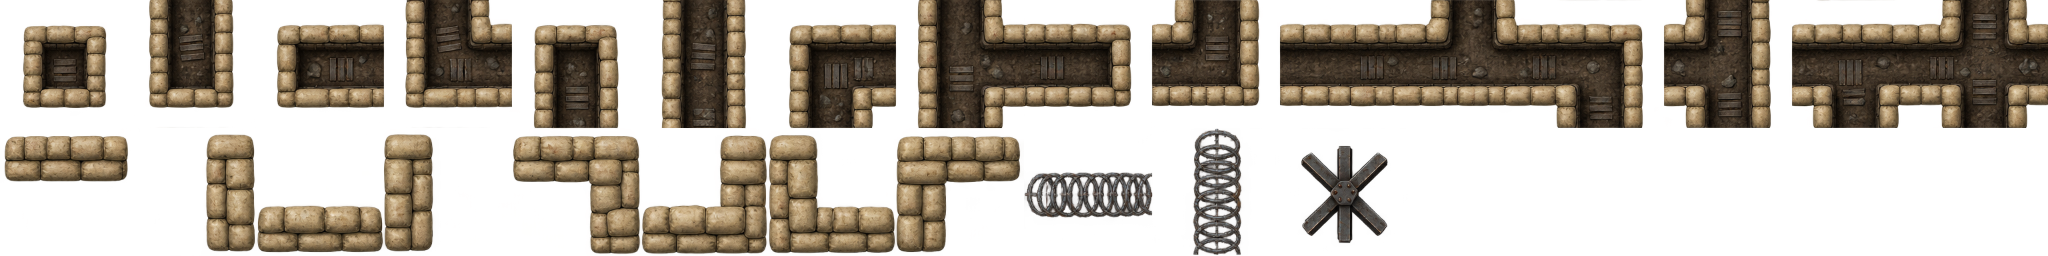
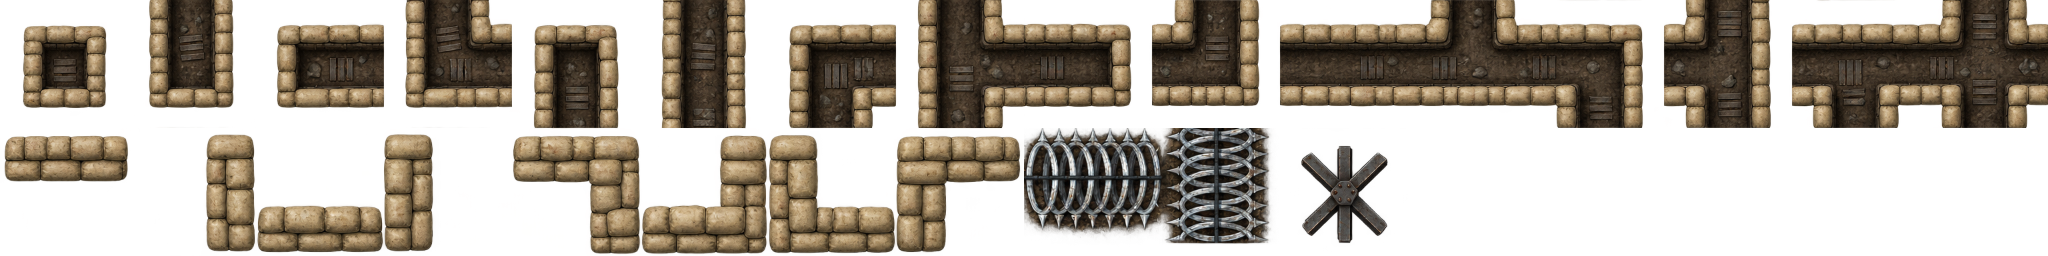
Keep a taken power plant running; bolder fort wire; suite captures all three aspects first

Changed region(s): [[0.5, 0.5, 0.625, 1.0]]

diff --git a/art-source/templates/fort-wire-guide.py b/art-source/templates/fort-wire-guide.py
@@ -1,0 +1,42 @@
+"""Geometry only: a bolder concertina wire for the fort belt, two 192px full-cell frames.
+
+Canvas 1536x1024, the same registration as fort-earthworks (frame 0 at (0, 576) horizontal run, frame 1 at (192, 576)
+vertical run), so the result is composited over those two frames of the earthworks sheet by
+art-source/tilesets/composite-fort-wire.py and exported through the ordinary tileset pipeline.
+
+The v1 coil was 60px of a 192px cell, a grey hairline on tan earth. This one fills ~62% of the cell width (120px
+coils), carries a dark contact-shadow band so the obstacle reads against bare earth, bright galvanised strands and
+sharp barbs, and edge-to-edge runs so neighbours join.
+"""
+from pathlib import Path
+from PIL import Image, ImageDraw
+
+ROOT = Path(__file__).resolve().parents[2]
+S = 192
+
+
+def wire(horizontal):
+    cell = Image.new('RGBA', (S, S))
+    d = ImageDraw.Draw(cell)
+    # contact shadow band: dark disturbed earth under the whole run
+    band = (0, S // 2 - 62, S, S // 2 + 62) if horizontal else (S // 2 - 62, 0, S // 2 + 62, S)
+    d.rectangle(band, fill=(40, 30, 22, 150))
+    for i in range(0, S, 24):
+        box = (i + 2, S // 2 - 56, i + 50, S // 2 + 56) if horizontal else (S // 2 - 56, i + 2, S // 2 + 56, i + 50)
+        d.ellipse(box, outline='#c9ced0', width=8)
+        # barbs at the top and bottom of every coil
+        for sign in (-1, 1):
+            if horizontal:
+                x, y = i + 26, S // 2 + sign * 56
+                d.polygon([(x - 6, y), (x + 6, y), (x, y + sign * 16)], fill='#e6eaeb')
+            else:
+                x, y = S // 2 + sign * 56, i + 26
+                d.polygon([(x, y - 6), (x, y + 6), (x + sign * 16, y)], fill='#e6eaeb')
+    d.line((0, S // 2, S, S // 2) if horizontal else (S // 2, 0, S // 2, S), fill='#3a3f41', width=6)
+    return cell
+
+
+guide = Image.new('RGBA', (1536, 1024))
+guide.alpha_composite(wire(True), (0, 3 * S))
+guide.alpha_composite(wire(False), (S, 3 * S))
+guide.save(ROOT / 'art-source/templates/fort-wire-guide.png')

diff --git a/src/test/java/com/dillon/starsectormarines/ops/BatteryFortMapSnapshotSuite.java b/src/test/java/com/dillon/starsectormarines/ops/BatteryFortMapSnapshotSuite.java
@@ -6,6 +6,7 @@ import com.dillon.starsectormarines.battle.fixture.BattleFixture;
 import com.dillon.starsectormarines.battle.fixture.BattleFixtureJson;
 import com.dillon.starsectormarines.battle.fixture.BattleLaunchFixture;
 import com.dillon.starsectormarines.battle.fixture.ConquestBattleFixture;
+import com.dillon.starsectormarines.battle.battery.FireControl;
 import com.dillon.starsectormarines.battle.fort.Fort;
 import com.dillon.starsectormarines.battle.fort.FortAspect;
 import com.dillon.starsectormarines.battle.fort.FortKind;
@@ -144,15 +145,16 @@ public final class BatteryFortMapSnapshotSuite implements SnapshotSuite {
         for (FortAspect aspect : BATTERY_BUILDINGS) {
             out.add(stateFrame(context, sim, ladder, aspect, "intact"));
         }
+        // Take every building first, and stop ticking the moment the holder flips: a tick with nobody present after
+        // the flip would start contesting it again, which is a suite artifact and not a fort law.
         for (FortAspect aspect : BATTERY_BUILDINGS) {
-            Fort.Place place = taken.place(aspect);
-            for (int s = 0; s < 40; s++) {
-                if (aspect == FortAspect.FIRE_CONTROL) {
-                    taken.battery().fireControl().tick(1f, false, Faction.MARINE);
-                } else {
-                    place.control().tick(1f, false, Faction.MARINE);
-                }
+            FireControl control = aspect == FortAspect.FIRE_CONTROL
+                    ? taken.battery().fireControl() : taken.place(aspect).control();
+            for (int s = 0; s < 40 && control.holder() != Faction.MARINE; s++) {
+                control.tick(1f, false, Faction.MARINE);
             }
+        }
+        for (FortAspect aspect : BATTERY_BUILDINGS) {
             out.add(stateFrame(context, sim, taken, aspect, "captured"));
         }
         for (FortAspect aspect : BATTERY_BUILDINGS) {

diff --git a/src/test/java/com/dillon/starsectormarines/battle/fort/FortBuildingArtTest.java b/src/test/java/com/dillon/starsectormarines/battle/fort/FortBuildingArtTest.java
@@ -13,6 +13,7 @@ import java.nio.file.Path;
 
 import static org.junit.jupiter.api.Assertions.assertArrayEquals;
 import static org.junit.jupiter.api.Assertions.assertEquals;
+import static org.junit.jupiter.api.Assertions.assertFalse;
 import static org.junit.jupiter.api.Assertions.assertNotNull;
 import static org.junit.jupiter.api.Assertions.assertNull;
 import static org.junit.jupiter.api.Assertions.assertThrows;
@@ -66,6 +67,15 @@ class FortBuildingArtTest {
         assertEquals(0.5f, art.activity(FortBuildingArt.State.DAMAGED, true));
         assertEquals(0f, art.activity(FortBuildingArt.State.INTACT, false));
         assertEquals(0f, art.activity(FortBuildingArt.State.WRECKED, true));
+    }
+
+    @Test
+    void aTakenButUncontestedPlantKeepsRunning() throws Exception {
+        FortBuildingArt art = FortBuildingArt.parse("s", new JSONObject(ART));
+        assertTrue(FortBuildingArt.plantRuns(false, false));
+        assertFalse(FortBuildingArt.plantRuns(true, false));
+        assertFalse(FortBuildingArt.plantRuns(false, true));
+        assertEquals(1f, art.activity(FortBuildingArt.State.INTACT, FortBuildingArt.plantRuns(false, false)));
     }
 
     @Test

diff --git a/art-source/tilesets/composite-fort-wire.py b/art-source/tilesets/composite-fort-wire.py
@@ -1,0 +1,15 @@
+"""Lays the two bolder wire frames from fort-wire.raw.png over the original earthworks sheet.
+
+fort-earthworks.base.raw.png is the untouched earthworks generation (its wire frames are the thin v1 coil);
+fort-wire.raw.png is the geometry-first reskin. Only the two 192px frames at (0, 576) and (192, 576) are replaced;
+the result is fort-earthworks.raw.png, the sheet the tileset document cuts from.
+"""
+from pathlib import Path
+from PIL import Image
+
+HERE = Path(__file__).resolve().parent
+base = Image.open(HERE / 'fort-earthworks.base.raw.png').convert('RGBA')
+wire = Image.open(HERE / 'fort-wire.raw.png').convert('RGBA')
+box = (0, 576, 384, 768)
+base.paste(wire.crop(box), box[:2])  # paste replaces, including alpha
+base.save(HERE / 'fort-earthworks.raw.png')

diff --git a/src/main/java/com/dillon/starsectormarines/ops/battleview/FortBuildingRenderSystem.java b/src/main/java/com/dillon/starsectormarines/ops/battleview/FortBuildingRenderSystem.java
@@ -106,7 +106,7 @@ public final class FortBuildingRenderSystem implements RenderSystem {
         boolean gunBound = fireControl && battery != null;
         Faction holder = gunBound ? battery.owner() : place.control().holder();
         boolean powered = place.aspect() == FortAspect.POWER
-                ? !place.control().contested() && (battery == null || !battery.destroyed())
+                ? FortBuildingArt.plantRuns(place.control().contested(), battery != null && battery.destroyed())
                 : fort.powered(battery != null ? battery.owner() : holder);
         float activity = art.activity(state, powered);
         boolean taken = !holder.friendlyTo(gunBound ? battery.originalOwner() : place.originalHolder());

diff --git a/src/main/java/com/dillon/starsectormarines/battle/fort/FortBuildingArt.java b/src/main/java/com/dillon/starsectormarines/battle/fort/FortBuildingArt.java
@@ -134,6 +134,14 @@ public final class FortBuildingArt {
     }
 
     /**
+     * Whether a power plant is running. A captured aspect works for its new holder, so the holder is deliberately not
+     * an input: a plant is stopped only while its point is contested or its battery is destroyed.
+     */
+    public static boolean plantRuns(boolean contested, boolean batteryDestroyed) {
+        return !contested && !batteryDestroyed;
+    }
+
+    /**
      * How fast the building's machinery runs, 0 to 1. A wrecked building runs nothing, and a building whose power is
      * not its holder's (cut, contested or taken from the plant that feeds it) runs nothing either; a hurt one runs at
      * half speed.

diff --git a/art-source/geometry-first-imagegen.md b/art-source/geometry-first-imagegen.md
@@ -83,7 +83,7 @@ Keep source inputs out of `mod/`; only exported art and its runtime catalog ship
 | Ship berthing | `BarracksBunkTemplate`; full bunk bases, separate bedding and rails, personal locker banks | `templates/barracks-bunks.png`, `tilesets/barracks-bunks.*` | `ship-materials` |
 | Neutral ship bulkheads | `ShipBulkheadTemplate`; sixteen exposed-face masks, quiet charcoal/enamel materials | `templates/ship-bulkheads.png`, `tilesets/ship-bulkheads.*`, `tilesets/ship-neutral.README.md` | `ship-neutral` |
 | Ground-defence structures | `art-source/templates/defence-structures-guide.py`; static 3x3 plinths, a rotating gun house with barrel recoil layer, a spinning emitter ring and a tint-by-holder core, pivots at canvas centre; exporter splits and registers mechanically (Codex CLI: `art-source/defences/generate.sh`) | `templates/defence-structures-*.py`, `templates/fortress-battery-*-guide.png`, `templates/shield-generator-*-guide.png`, `defences/*.prompt.txt`, `defences/raw/` | `turrets`, `fortress-battery`, `shield-dome` |
-| Fort earthworks | `art-source/templates/fort-earthworks-guide.py`; sixteen trench sections addressed by open-arm mask (channel 30%-70% at every edge so neighbours join), eight thick sandbag runs and corners, concertina wire and a hedgehog on 192px full-cell frames (Codex CLI: `art-source/tilesets/generate-fort-earthworks.sh`) | `templates/fort-earthworks-guide.*`, `tilesets/fort-earthworks.*` | `battery-fort-map` |
+| Fort earthworks | `art-source/templates/fort-earthworks-guide.py`; sixteen trench sections addressed by open-arm mask (channel 30%-70% at every edge so neighbours join), eight thick sandbag runs and corners, concertina wire and a hedgehog on 192px full-cell frames (Codex CLI: `art-source/tilesets/generate-fort-earthworks.sh`); the wire is then reskinned bolder (`templates/fort-wire-guide.py`, `tilesets/generate-fort-wire.sh`) and `composite-fort-wire.py` lays it over `fort-earthworks.base.raw.png` | `templates/fort-earthworks-guide.*`, `templates/fort-wire-guide.*`, `tilesets/fort-earthworks.*`, `tilesets/fort-wire.*` | `battery-fort-map` |
 | Fort buildings | `art-source/templates/fort-buildings-guide.py`; per aspect, four panels (intact roof, damaged, destroyed wreck, lights overlay) on the building's interior floor rectangle at one pixel scale, a parts sheet (spinning radar and fans, 3x3 interior bases) and a gatehouse sheet; exporter crops mechanically at 64 px/cell (Codex CLI: `art-source/fort-buildings/generate.sh <asset>`) | `templates/fort-buildings-*-guide.png`, `fort-buildings/prompts/`, `fort-buildings/raw/`, `fort-buildings/export.py` | `battery-fort-map` |
 | Ship openings and decks | `ShipInteriorMaterialTemplate`; full-cell cardinal openings and seamless resin samples | `templates/ship-interior-materials.png`, `tilesets/ship-interior-materials.*` | `ship-materials` |
 

diff --git a/roadmap/air/design/forts.md b/roadmap/air/design/forts.md
@@ -4,7 +4,7 @@ Status: ACTIVE
 
 Written: 2026-10-14
 
-Updated: 2026-10-13 — fort buildings drawn by function with intact, damaged, wrecked and taken states; shield fort, redoubt/citadel and command awareness remain.
+Updated: 2026-10-13 — bolder wire, taken plant keeps running; fort buildings drawn by function with intact, damaged, wrecked and taken states; shield fort, redoubt/citadel and command awareness remain.
 
 Read `ground-defences.md` first (the battery, the dome, nests, fire control, the placement
 law), then the "Authored relationships within a compound" section of `compound-programs.md`,
@@ -143,7 +143,7 @@ banner and takes a wash of the holder's colour. Gatehouse towers carry embrasure
 carries folded leaves, and neither draws over a breach. A new fort kind adds data (a `buildingArt` block per aspect) and a
 layout, not renderer code. Retained sources: `art-source/fort-buildings/`. Art is authored with the door on one edge; a plan whose door is on the other
 edge turns it half a revolution (the shield fort's plant). Interior berms are two courses thick and belt wire is two rows.
-The wire sprite itself is still pale on earth and wants a bolder reskin; the shield fort has no gatehouse pieces yet.
+The belt wire is a bold coil on a dark contact shadow. A taken plant keeps running for its new holder: only a contested point or a destroyed battery stops it. The shield fort has no gatehouse pieces yet.
 
 ## Slices
 
